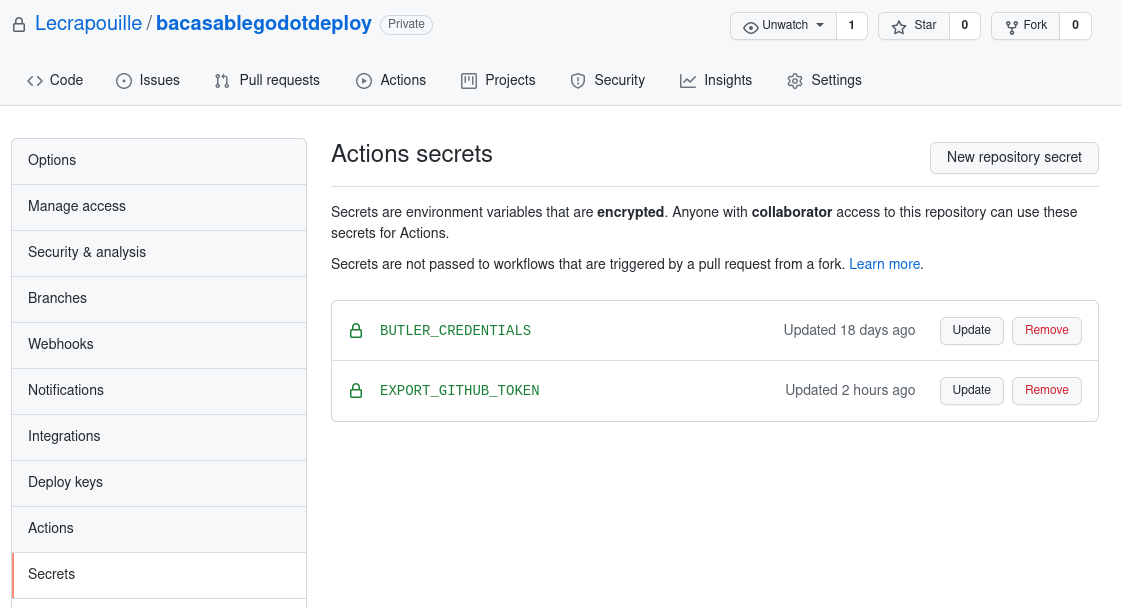
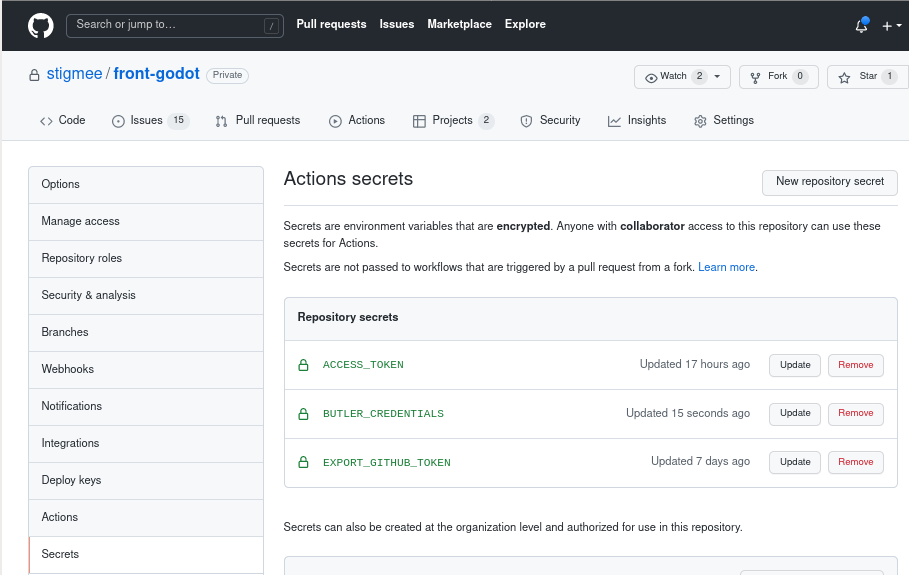
Update CI tuto

diff --git a/doc/continuous_deployment_en.md b/doc/continuous_deployment_en.md
@@ -1,31 +1,70 @@
-# Continuous integration and Deployement
+# Continuous Integration and Deployment
 
-We are using GitHub actions for automatically building Godot's project (coming soon Stigmee)
-and deploying binaries (Linux, Mac OSX, Windows) to a server itch.io in which users can download them.
+We are using GitHub actions for automatically building Stigmee project and
+deploying released binaries (Linux, Mac OSX, Windows) to a server
+https://github.com/stigmee/front-godot/releases or https://lecrapouille.itch.io/
+in which users can download them.
 
 We have followed these instructions:
 https://saltares.com/continuous-delivery-pipeline-for-godot-and-itch.io/
 
-There are inportants steps concerning adding two tokens which are not so easy:
-- On **your personnal GitHub settings**, create a "personal access token" https://github.com/settings/tokens. Click on "Generate new token" and select the buton "workflow (Update GitHub Action workflows)".
+## Tokens and Secrets
+
+Tokens are hashed values. Secrets are the containers holding tokens.
+
+There are important steps concerning adding tokens which are not so easy to know
+where to click on GitHub pages. In addition with an GitHub organisation, the
+organisation by itself cannot hold tokens. One developer of the team has to hold
+tokens. For Stigmee https://github.com/Lecrapouille is currently holding them.
+
+- On **your personal GitHub Developer settings** (in this case Lecrapouille's
+  personal GitHub Developer settings), create two "Personal access tokens"
+  https://github.com/settings/tokens. For the first click on "Generate new
+  token" and select the button "workflow (Update GitHub Action workflows)". For
+  the second token click on the button "repo".
 
 ![token1](continuous_deployment_01.png)
 
-- On **your personnal itch.io settings**, find your Dvelopper API Key.
-- On **the project GitHub settings**, create two secrets:
-  - `EXPORT_GITHUB_TOKEN` holding your personal GitHub workflow token.
+- On **the Stigmee project GitHub settings**, create two secrets:
+  - `EXPORT_GITHUB_TOKEN` holding your personal GitHub workflow token allowing
+    you to trigger GitHub actions.
+  - `ACCESS_TOKEN` holding your personal GitHub repo token to give you the right
+    to git cloning on private repos inside the Stigmee organisation.
+
+- For the moment it has been decided not using itch.io for Stigmee (to stay
+  private). For the day we want to use it: on **your personal itch.io settings**
+  (in this case Lecrapouille's personal itch.io Developer settings), find your
+  Developer API Key.
+- On **the project GitHub settings**, create the last secret:
   - `BUTLER_CREDENTIALS` holding your personal itch.io API key.
+- This should looks like this:
 
 ![token2](continuous_deployment_02.png)
-
-GitHub actions are yaml files to be store in the folder `<your project>/.github/workflows/`. If you notice thes files refer to `uses: firebelley/godot-export@v1.1.0` and `josephbmanley/butler-publish-itchio-action@master` which are two external GitHub projects with the desired release (for example https://github.com/firebelley/godot-export).
-
-For more information concernin GitHub actions: https://youtu.be/R8_veQiYBjI
 
 ## Creating an account on https://itch.io/
 
 - Go to https://itch.io/ and create an account.
-- Install the Linux client: https://itch.io/app download and install it `./itch-setup`.
-I think it's mainly a browser, but for the few I used, it shows statistics on downloads.
+- Install the Linux client: https://itch.io/app download and install it
+`./itch-setup`.  I think it's mainly a browser, but for the few I used, it shows
+statistics on downloads.
 
 ![token3](continuous_deployment_03.png)
+
+## GitHub actions Syntax
+
+GitHub actions are yaml files to be stored in the folder `<your
+project>/.github/workflows/`. GitHub actions syntax is pretty easy and clear to
+understand. Some other CI services such as Trevis-CI or Appveyor are for me
+obsolete and shall not be used. Else, for more information concerning GitHub
+actions: https://youtu.be/R8_veQiYBjI
+
+If you notice well, GitHub actions files have lines like `uses:
+firebelley/godot-export@v1.1.0` and
+`josephbmanley/butler-publish-itchio-action@master` which simply refering to two
+external GitHub projects with the desired release (for example
+https://github.com/firebelley/godot-export).
+
+GitHub actions steps follow this template:
+- `name: foo bar` with the desired description.
+- `uses: firebelley/godot-export@v3.0.0` referring to an external GitHub actions repos.
+- `with:` optionally the list of parameters for the actions.
